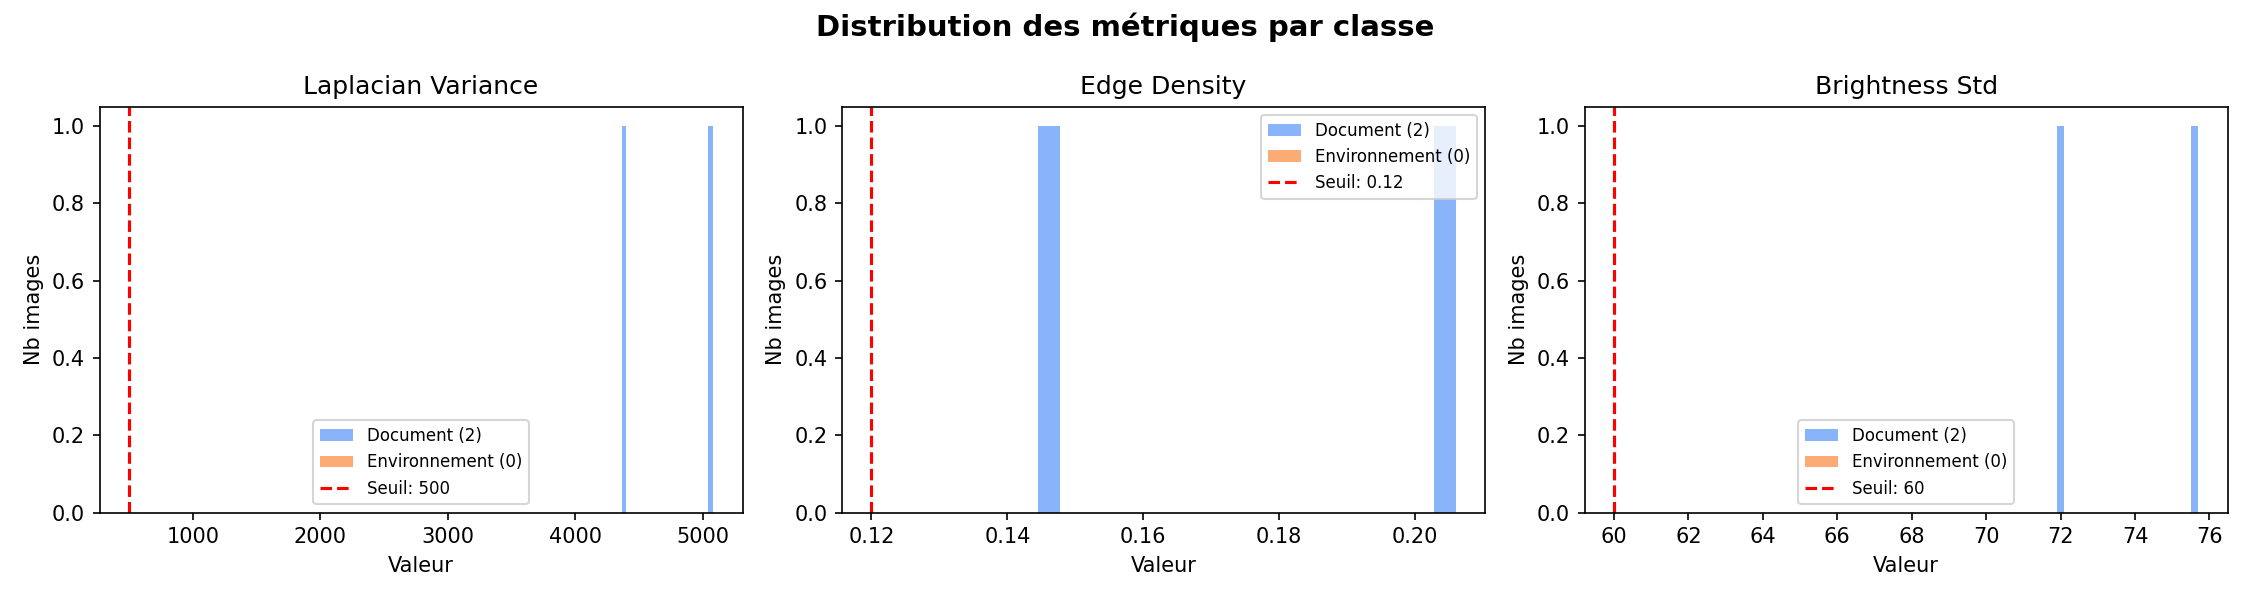
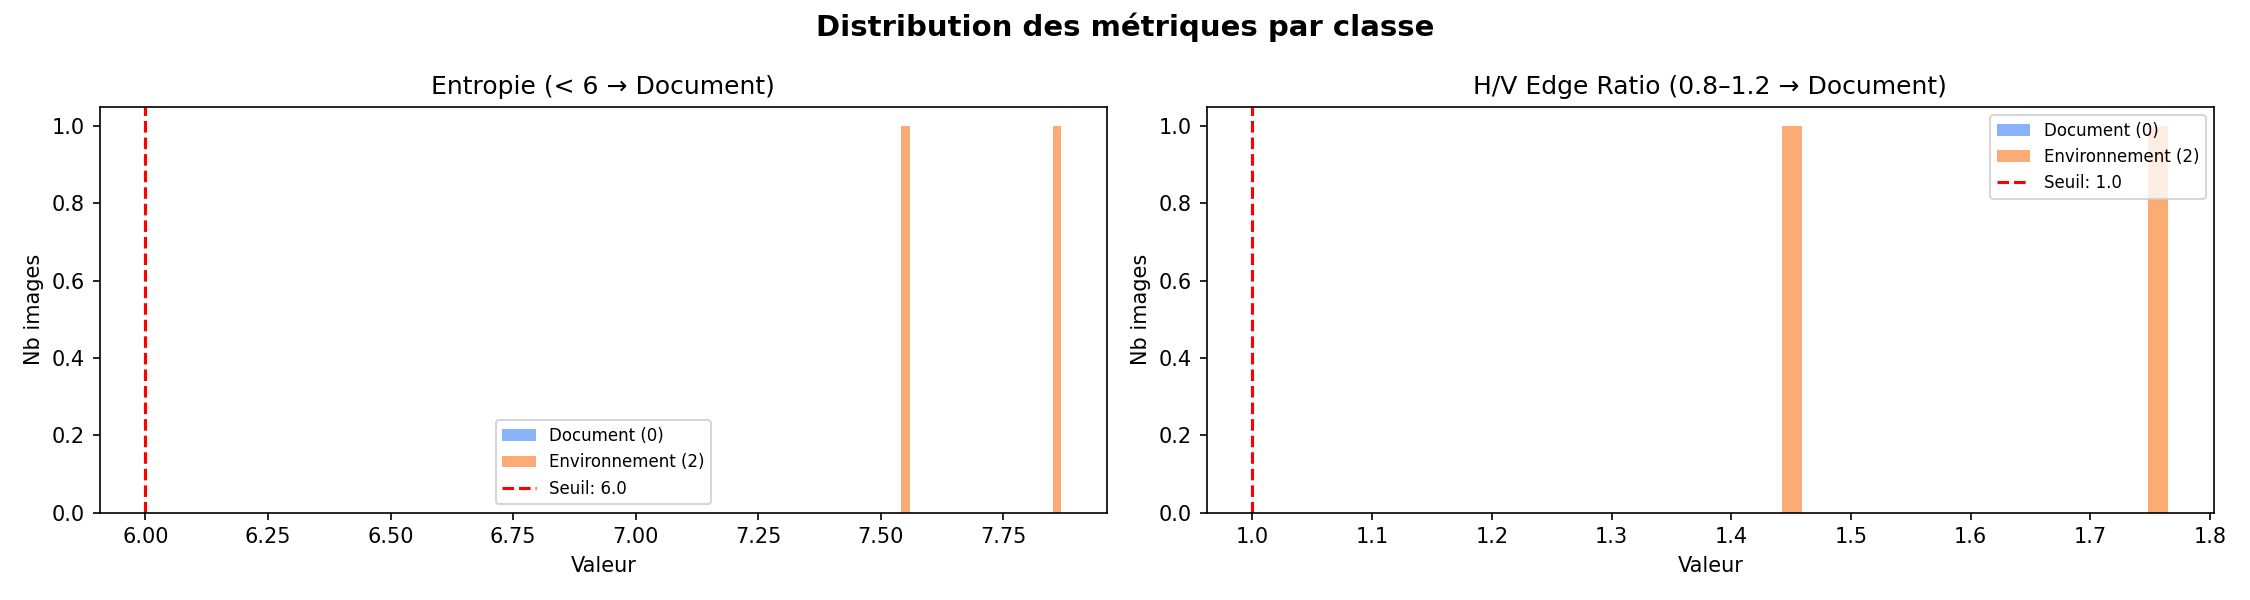
Update analysis of the classification with the new metrics

diff --git a/backend-ai/classification_analysis.py b/backend-ai/classification_analysis.py
@@ -4,19 +4,19 @@ import json
 from pathlib import Path
 
 ROOT_DIR = Path(__file__).resolve().parent.parent
-ASSETS_DIR = ROOT_DIR / "assets" / "outputs"
+METRICS_PATH = ROOT_DIR / "assets" / "outputs" / "metrics.json"
 
-with open("assets/outputs/metrics.json") as f:
+with open(METRICS_PATH) as f:
     data = json.load(f)
 
 docs = [d for d in data if d["label"] == "DOCUMENT"]
 envs = [d for d in data if d["label"] == "ENVIRONNEMENT"]
 
-metrics = ["laplacian_variance", "edge_density", "brightness_std"]
-seuils  = [500, 0.12, 60]
-labels  = ["Laplacian Variance", "Edge Density", "Brightness Std"]
+metrics = ["entropy",  "h_edge_ratio"]
+seuils  = [6.0, 1.0]
+labels  = ["Entropie (< 6 → Document)", "H/V Edge Ratio (0.8–1.2 → Document)"]
 
-fig, axes = plt.subplots(1, 3, figsize=(15, 4))
+fig, axes = plt.subplots(1, 2, figsize=(15, 4))
 fig.suptitle("Distribution des métriques par classe", fontsize=14, fontweight="bold")
 
 for ax, metric, seuil, label in zip(axes, metrics, seuils, labels):
